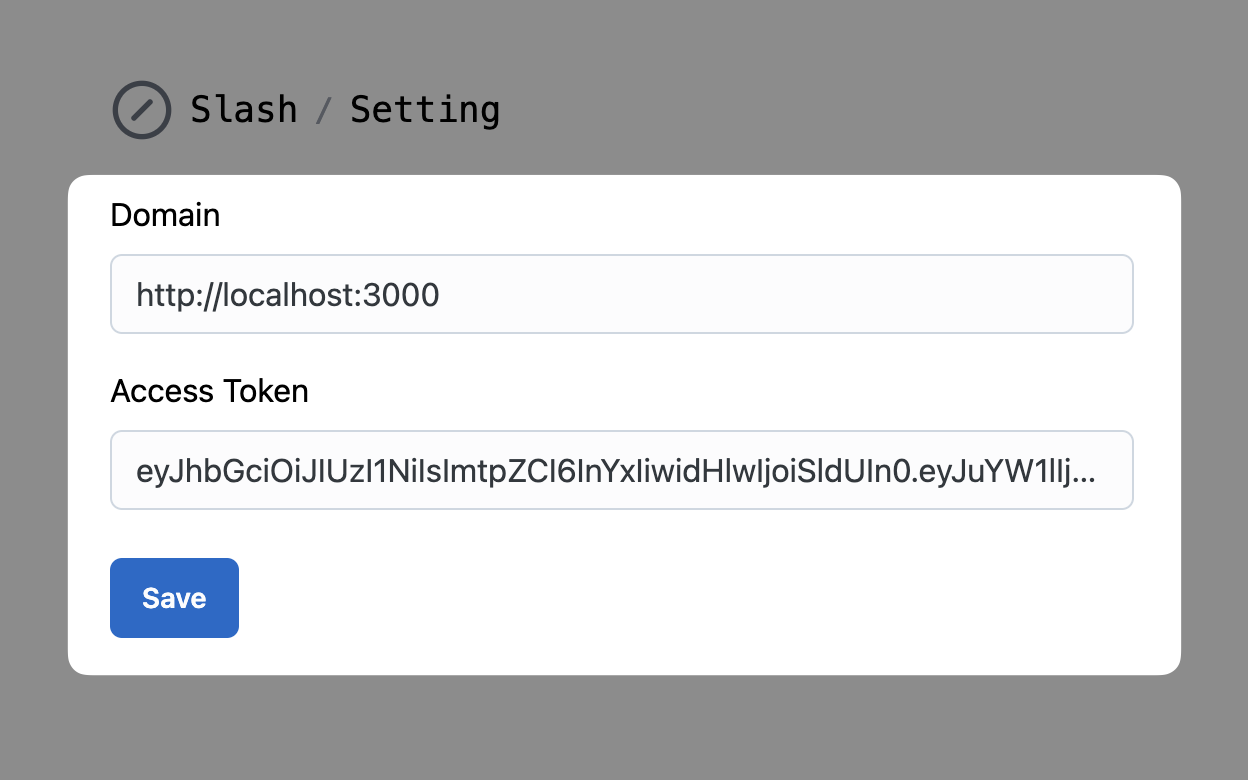
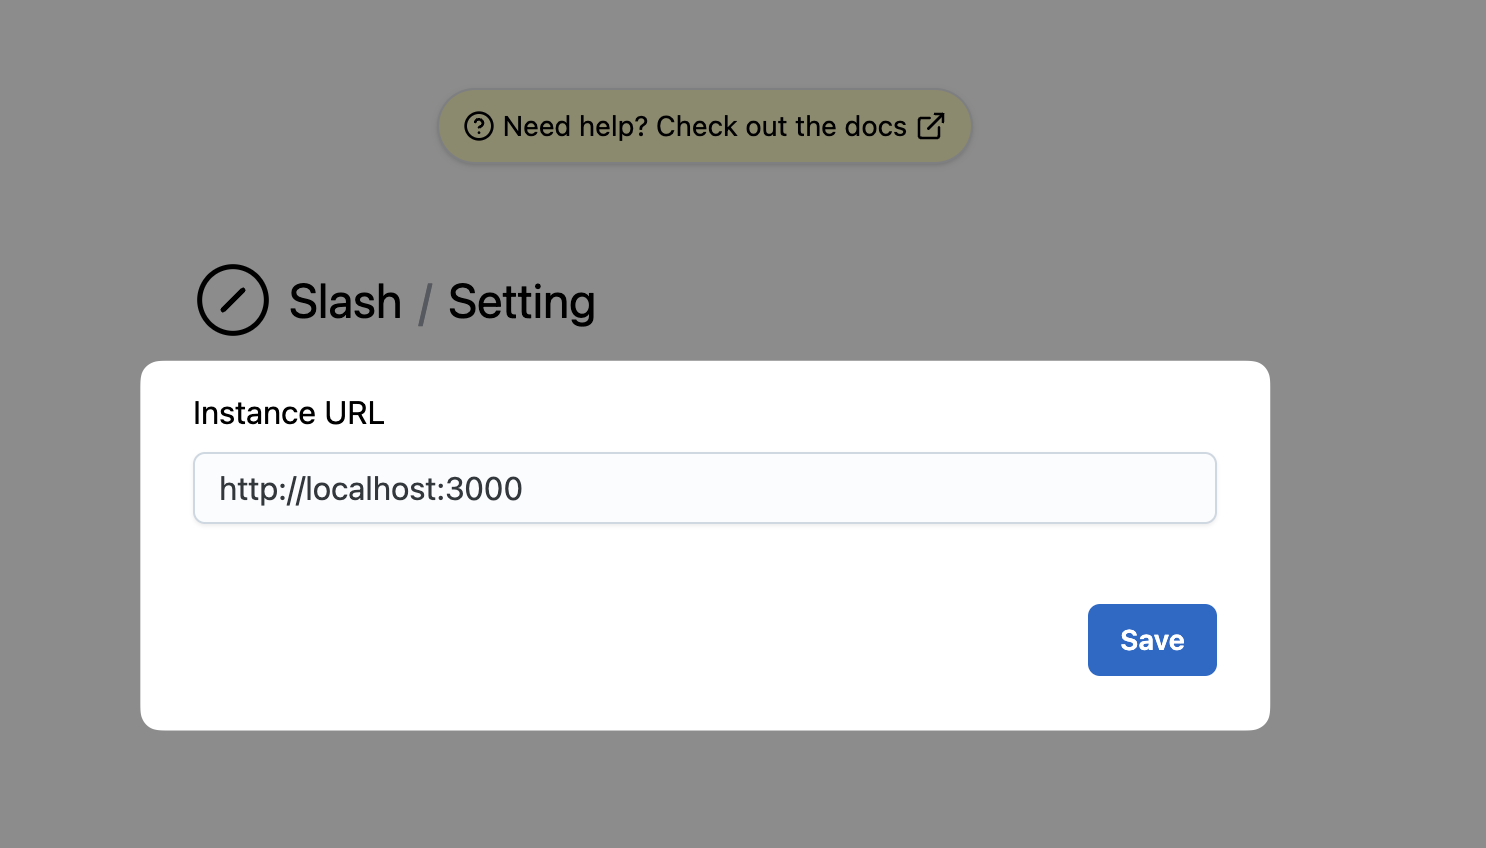
docs: update extension guide

diff --git a/docs/install-browser-extension.md b/docs/install-browser-extension.md
@@ -10,33 +10,22 @@ For Chromuim based browsers, you can install the extension from the [Chrome Web 
 
 For Firefox, you can install the extension from the [Firefox Add-ons](https://addons.mozilla.org/en-US/firefox/addon/your-slash/).
 
-### Generate an access token
+### Prerequisites
 
-1. Go to your Slash instance and sign in with your account.
-
-2. Go to the settings page and click on the "Create" button to create an access token.
-
-   ![](./assets/extension-usage/create-access-token.png)
-
-3. Copy the access token and save it somewhere safe.
-
-   ![](./assets/extension-usage/copy-access-token.png)
+- You need to have a Slash instance running.
+- Sign in with your account on the Slash instance.
 
 ### Configure the extension
+
+The extension needs to know the instance url of your Slash. You can configure it by following the steps below:
 
 1. Click on the extension icon and click on the "Settings" button.
 
    ![](./assets/extension-usage/extension-setting-button.png)
 
-2. Enter your Slash's domain and paste the access token you generated in the previous step.
+2. Enter the instance url of your Slash and then "Save".
 
    ![](./assets/extension-usage/extension-setting-page.png)
-
-3. Click on the "Save" button to save the settings.
-
-4. Click on the extension icon again, you will see a list of your shortcuts.
-
-   ![](./assets/extension-usage/extension-screenshot.png)
 
 ### Use your shortcuts in the search bar
 
